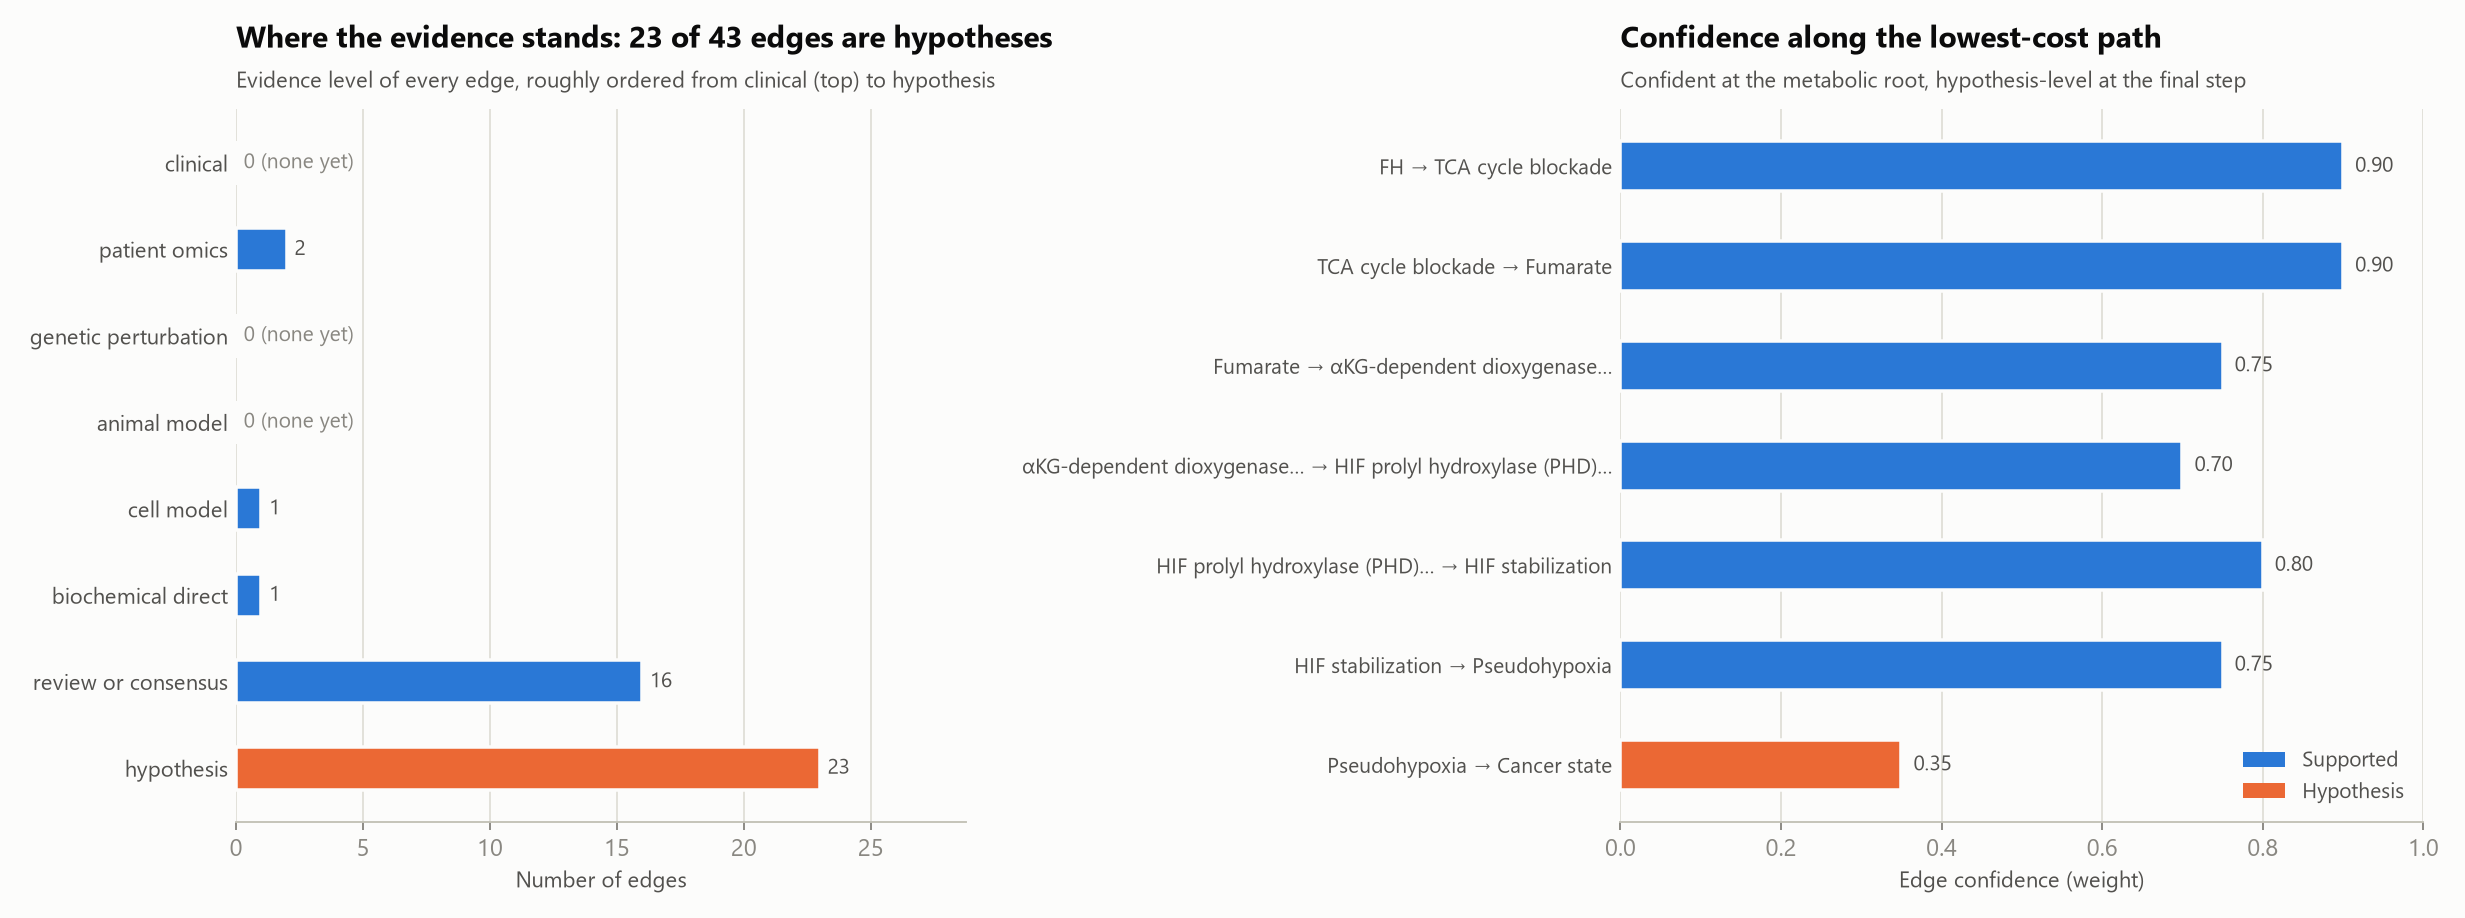
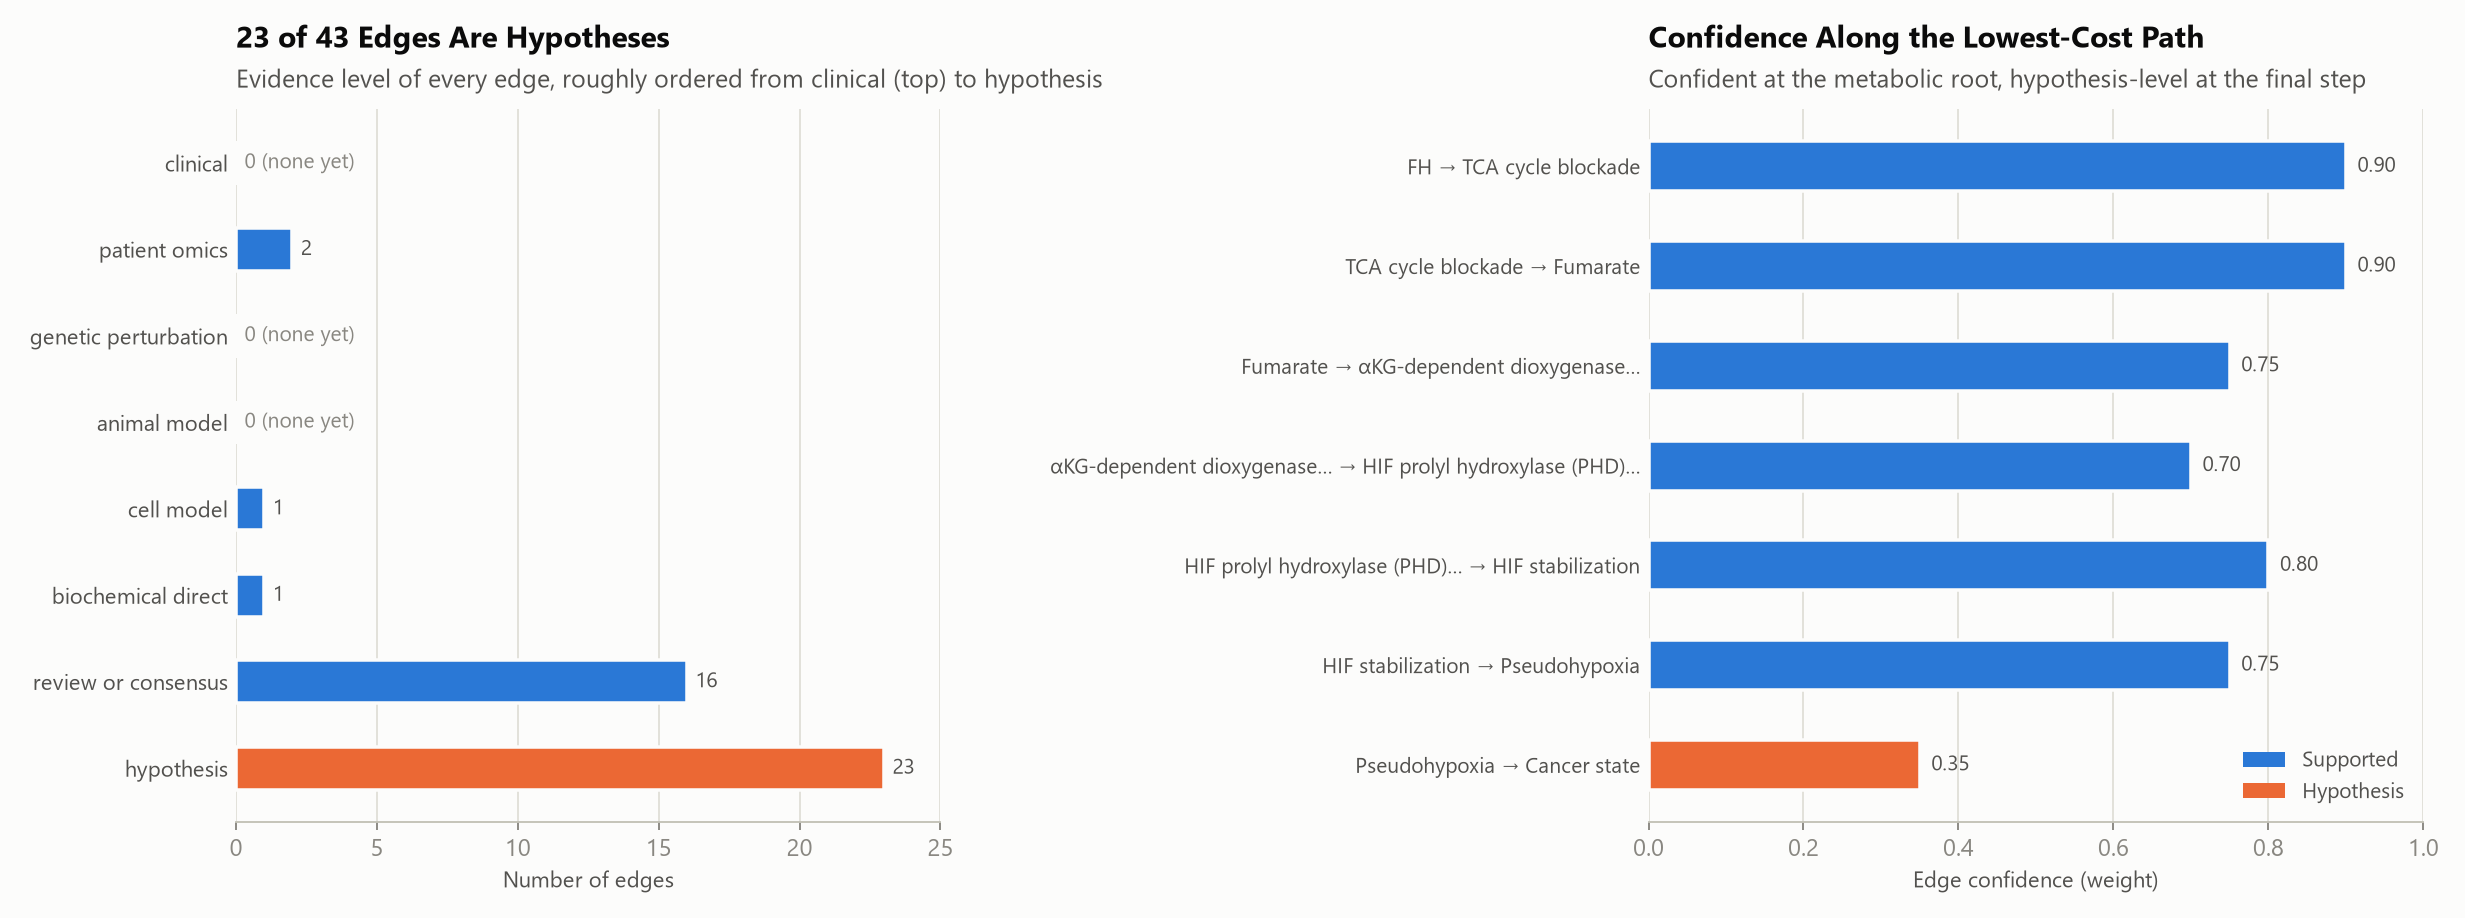
Refine evidence audit figure typography; add AI-assistance note to README

diff --git a/src/fhrcc_mechanismkg/viz.py b/src/fhrcc_mechanismkg/viz.py
@@ -23,6 +23,11 @@ SURFACE, INK, INK2, MUTED, GRID, LINE = "#fcfcfb", "#0b0b0b", "#52514e", "#89878
 GROUP_COLOR = {"molecular": BLUE, "mechanism": AQUA, "phenotype": ORANGE}
 FONT = ["Segoe UI", "DejaVu Sans", "Arial"]
 
+# Type scale for panel headers: subheader is two sizes (pt) below the title, y labels four below
+TITLE_PT = 12.5
+SUBTITLE_PT = TITLE_PT - 2
+YLABEL_MIN_PT = TITLE_PT - 4  # y labels never go below this; larger existing sizes are kept
+
 
 def _mpl():
     import matplotlib
@@ -230,12 +235,12 @@ def draw_evidence_audit(graph: Graph, best: PathResult, out_path: str, source_na
     for y, v in zip(ypos, vals):
         a1.text(v + 0.3, y, str(v) if v else "0 (none yet)", va = "center", fontsize = 9, color = INK2 if v else MUTED)
     a1.set_yticks(ypos)
-    a1.set_yticklabels([l.replace("_", " ") for l in levels], fontsize = 9.5)
-    a1.set_xlim(0, max(vals) * 1.25)
+    a1.set_yticklabels([l.replace("_", " ") for l in levels], fontsize = max(9.5, YLABEL_MIN_PT))
+    a1.set_xlim(0, 25)
     a1.set_xlabel("Number of edges", fontsize = 9.5)
     n_hyp = counts["hypothesis"]
-    a1.set_title(f"Where the evidence stands: {n_hyp} of {len(graph.edges)} edges are hypotheses", loc = "left", fontsize = 12.5, fontweight = "bold", pad = 26)
-    a1.text(0, 1.03, "Evidence level of every edge, roughly ordered from clinical (top) to hypothesis", transform = a1.transAxes, fontsize = 9.5, color = INK2)
+    a1.set_title(f"{n_hyp} of {len(graph.edges)} Edges Are Hypotheses", loc = "left", fontsize = TITLE_PT, fontweight = "bold", pad = 26)
+    a1.text(0, 1.03, "Evidence level of every edge, roughly ordered from clinical (top) to hypothesis", transform = a1.transAxes, fontsize = SUBTITLE_PT, color = INK2)
     _clean_axes(a1)
 
     steps = best.steps
@@ -247,14 +252,14 @@ def draw_evidence_audit(graph: Graph, best: PathResult, out_path: str, source_na
         a2.text(s.edge.weight + 0.015, y, f"{s.edge.weight:.2f}", va = "center", fontsize = 9, color = INK2)
     lab = [f"{_short(graph, s.edge.subject, 30)} → {_short(graph, s.edge.object, 30)}" for s in steps]
     a2.set_yticks(ypos2)
-    a2.set_yticklabels(lab, fontsize = 8.8)
+    a2.set_yticklabels(lab, fontsize = max(8.8, YLABEL_MIN_PT))
     a2.set_xlim(0, 1.0)
     a2.set_xlabel("Edge confidence (weight)", fontsize = 9.5)
-    a2.set_title("Confidence along the lowest-cost path", loc = "left", fontsize = 12.5, fontweight = "bold", pad = 26)
+    a2.set_title("Confidence Along the Lowest-Cost Path", loc = "left", fontsize = TITLE_PT, fontweight = "bold", pad = 26)
     a2.text(
         0, 1.03,
         "Confident at the metabolic root, hypothesis-level at the final step",
-        transform = a2.transAxes, fontsize = 9.5, color = INK2,
+        transform = a2.transAxes, fontsize = SUBTITLE_PT, color = INK2,
     )
     _clean_axes(a2)
     a2.legend(handles = [Patch(fc = BLUE, label = "Supported"), Patch(fc = ORANGE, label = "Hypothesis")], loc = "lower right", frameon = False, fontsize = 9, labelcolor = INK2)

diff --git a/README.md b/README.md
@@ -119,3 +119,4 @@ This KG supports a `citations` field on edges, but v1 does not attempt to system
     - Graph database/model: https://neo4j.com/developer/graph-database/
 - Development
     - ChatGPT (GPT-5 to GPT-5.2): back & forth brainstorming design, code drafting, documentation
+    - AI assistants helped with figure scripting; the biological model, data and interpretation are my own.
